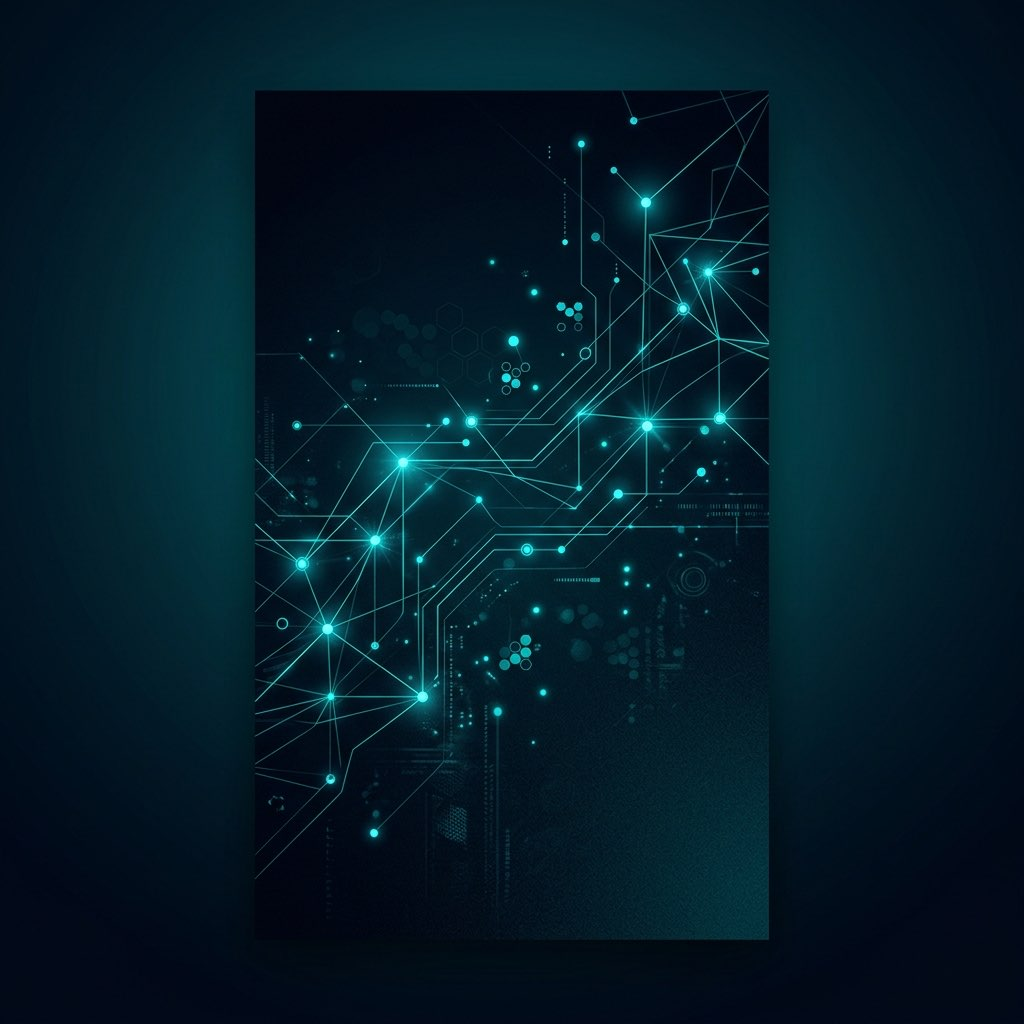
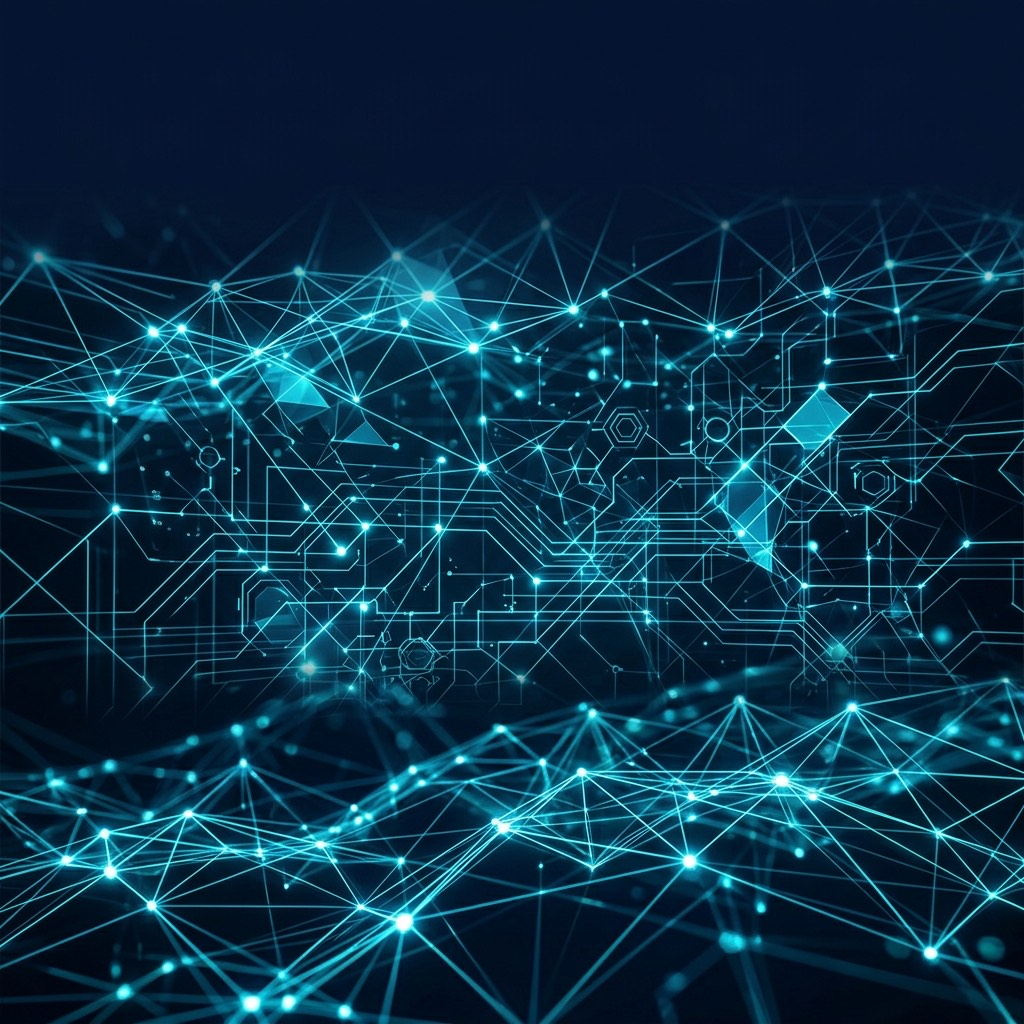
chore: apply user modifications to background and screens

diff --git a/lib/features/driver/presentation/screens/driver_profile_screen.dart b/lib/features/driver/presentation/screens/driver_profile_screen.dart
@@ -7,14 +7,13 @@ import 'package:flutter_riverpod/flutter_riverpod.dart';
 import '../../../../l10n/app_localizations.dart';
 import '../../../../core/providers/locale_provider.dart';
 
-
 class DriverProfileScreen extends ConsumerWidget {
   const DriverProfileScreen({super.key});
 
   @override
   Widget build(BuildContext context, WidgetRef ref) {
     final l10n = AppLocalizations.of(context);
-    
+
     // Mock user & vehicle data
     final mockUser = {
       'name': 'Kazi Omar',
@@ -22,7 +21,7 @@ class DriverProfileScreen extends ConsumerWidget {
       'phone': '+880 1711-223344',
       'license': 'DL-BD-987654321',
     };
-    
+
     final mockVehicle = {
       'model': 'Toyota HiAce 2018',
       'plate': 'Dhaka Metro-Cha 11-2233',
@@ -36,144 +35,193 @@ class DriverProfileScreen extends ConsumerWidget {
           image: DecorationImage(
             image: AssetImage('assets/images/driver_bg.jpg'),
             fit: BoxFit.cover,
-            opacity: 0.15,
+            opacity: 0.25,
           ),
         ),
         child: SafeArea(
-            child: SingleChildScrollView(
-              padding: const EdgeInsets.symmetric(horizontal: 24, vertical: 20).copyWith(bottom: 100),
-              child: Column(
-                children: [
-                  // App Bar
-                  Row(
-                    mainAxisAlignment: MainAxisAlignment.spaceBetween,
-                    children: [
-                      24.widthBox, // Spacer
-                      (l10n?.profileTitle ?? "MY PROFILE").text.white.letterSpacing(1).bold.xl.make(),
-                      
-                      // Language Toggle
-                      Container(
-                        height: 36,
-                        decoration: BoxDecoration(
-                          borderRadius: BorderRadius.circular(20),
-                          border: Border.all(color: Colors.cyanAccent.withValues(alpha: 0.3)),
-                          color: Colors.cyanAccent.withValues(alpha: 0.1),
-                        ),
-                        child: InkWell(
-                          borderRadius: BorderRadius.circular(20),
-                          onTap: () {
-                            final current = ref.read(localeProvider);
-                            ref.read(localeProvider.notifier).state = Locale(current.languageCode == 'en' ? 'bn' : 'en');
-                          },
-                          child: Padding(
-                            padding: const EdgeInsets.symmetric(horizontal: 12.0),
-                            child: Row(
-                              children: [
-                                const Icon(Icons.language, size: 16, color: Colors.cyanAccent),
-                                4.widthBox,
-                                (ref.watch(localeProvider).languageCode == 'en' ? 'বাং' : 'EN')
-                                    .text
-                                    .color(Colors.cyanAccent)
-                                    .bold
-                                    .make(),
-                              ],
-                            ),
-                          ),
-                        ),
-                      ),
-                    ],
-                  ),
-                  40.heightBox,
-                  
-                  // Avatar Profile Picture
-                  Center(
-                    child: Container(
-                      padding: const EdgeInsets.all(4),
+          child: SingleChildScrollView(
+            padding: const EdgeInsets.symmetric(
+              horizontal: 24,
+              vertical: 20,
+            ).copyWith(bottom: 100),
+            child: Column(
+              children: [
+                // App Bar
+                Row(
+                  mainAxisAlignment: MainAxisAlignment.spaceBetween,
+                  children: [
+                    24.widthBox, // Spacer
+                    (l10n?.profileTitle ?? "MY PROFILE").text.white
+                        .letterSpacing(1)
+                        .bold
+                        .xl
+                        .make(),
+
+                    // Language Toggle
+                    Container(
+                      height: 36,
                       decoration: BoxDecoration(
-                        shape: BoxShape.circle,
-                        gradient: const LinearGradient(
-                          colors: [Colors.cyanAccent, Colors.blueAccent],
+                        borderRadius: BorderRadius.circular(20),
+                        border: Border.all(
+                          color: Colors.cyanAccent.withValues(alpha: 0.3),
                         ),
-                        boxShadow: [
-                          BoxShadow(
-                            color: Colors.cyanAccent.withValues(alpha: 0.3),
-                            blurRadius: 20,
-                            spreadRadius: 2,
+                        color: Colors.cyanAccent.withValues(alpha: 0.1),
+                      ),
+                      child: InkWell(
+                        borderRadius: BorderRadius.circular(20),
+                        onTap: () {
+                          final current = ref.read(localeProvider);
+                          ref.read(localeProvider.notifier).state = Locale(
+                            current.languageCode == 'en' ? 'bn' : 'en',
+                          );
+                        },
+                        child: Padding(
+                          padding: const EdgeInsets.symmetric(horizontal: 12.0),
+                          child: Row(
+                            children: [
+                              const Icon(
+                                Icons.language,
+                                size: 16,
+                                color: Colors.cyanAccent,
+                              ),
+                              4.widthBox,
+                              (ref.watch(localeProvider).languageCode == 'en'
+                                      ? 'বাং'
+                                      : 'EN')
+                                  .text
+                                  .color(Colors.cyanAccent)
+                                  .bold
+                                  .make(),
+                            ],
                           ),
-                        ],
-                      ),
-                      child: const CircleAvatar(
-                        radius: 50,
-                        backgroundColor: Color(0xFF0B1320),
-                        child: Icon(Icons.person, size: 50, color: Colors.cyanAccent),
-                      ),
-                    ),
-                  ).animate().scale(delay: 100.ms, duration: 400.ms),
-                  16.heightBox,
-                  (mockUser['name']!).text.white.bold.xl3.make(),
-                  4.heightBox,
-                  "ID: ${mockUser['id']!}".text.color(Colors.cyanAccent).letterSpacing(1).make(),
-                  30.heightBox,
-                  
-                  // Personal Details Card (Glassmorphism)
-                  _buildGlassCard(
-                    title: l10n?.personalDetails ?? "PERSONAL DETAILS",
-                    icon: Icons.badge_outlined,
-                    children: [
-                      _buildInfoRow(Icons.phone, l10n?.phoneNumber ?? "Phone Number", mockUser['phone']!),
-                      const Divider(color: Colors.white10, height: 24),
-                      _buildInfoRow(Icons.card_membership, l10n?.licenseNo ?? "License No", mockUser['license']!),
-                    ],
-                  ).animate().fade(delay: 200.ms).slideY(begin: 0.1, end: 0),
-                  
-                  20.heightBox,
-                  
-                  // Assigned Vehicle Card
-                  _buildGlassCard(
-                    title: l10n?.assignedVehicle ?? "ASSIGNED VEHICLE",
-                    icon: Icons.directions_car_outlined,
-                    children: [
-                      _buildInfoRow(Icons.local_taxi, l10n?.vehicleModel ?? "Vehicle Model", mockVehicle['model']!),
-                      const Divider(color: Colors.white10, height: 24),
-                      _buildInfoRow(Icons.pin, l10n?.plateNumber ?? "Plate Number", mockVehicle['plate']!),
-                      const Divider(color: Colors.white10, height: 24),
-                      _buildInfoRow(Icons.local_gas_station, l10n?.fuelType ?? "Fuel Type", mockVehicle['fuel']!),
-                    ],
-                  ).animate().fade(delay: 300.ms).slideY(begin: 0.1, end: 0),
-                  
-                  40.heightBox,
-                  
-                  // Logout Button
-                  SizedBox(
-                    width: double.infinity,
-                    height: 56,
-                    child: ElevatedButton(
-                      onPressed: () {
-                        // TODO: Implement actual logout logic
-                        context.go('/login');
-                      },
-                      style: ElevatedButton.styleFrom(
-                        backgroundColor: Colors.redAccent.withValues(alpha: 0.1),
-                        foregroundColor: Colors.redAccent,
-                        shape: RoundedRectangleBorder(
-                          borderRadius: BorderRadius.circular(16),
-                          side: const BorderSide(color: Colors.redAccent, width: 1.5),
                         ),
-                        elevation: 0,
-                      ),
-                      child: Row(
-                        mainAxisAlignment: MainAxisAlignment.center,
-                        children: [
-                          const Icon(Icons.logout),
-                          8.widthBox,
-                          (l10n?.logout ?? "LOGOUT").text.bold.letterSpacing(1).make(),
-                        ],
                       ),
                     ),
-                  ).animate().fade(delay: 400.ms).slideY(begin: 0.1, end: 0),
-                  
-                  20.heightBox,
-                ],
+                  ],
+                ),
+                40.heightBox,
+
+                // Avatar Profile Picture
+                Center(
+                  child: Container(
+                    padding: const EdgeInsets.all(4),
+                    decoration: BoxDecoration(
+                      shape: BoxShape.circle,
+                      gradient: const LinearGradient(
+                        colors: [Colors.cyanAccent, Colors.blueAccent],
+                      ),
+                      boxShadow: [
+                        BoxShadow(
+                          color: Colors.cyanAccent.withValues(alpha: 0.3),
+                          blurRadius: 20,
+                          spreadRadius: 2,
+                        ),
+                      ],
+                    ),
+                    child: const CircleAvatar(
+                      radius: 50,
+                      backgroundColor: Color(0xFF0B1320),
+                      child: Icon(
+                        Icons.person,
+                        size: 50,
+                        color: Colors.cyanAccent,
+                      ),
+                    ),
+                  ),
+                ).animate().scale(delay: 100.ms, duration: 400.ms),
+                16.heightBox,
+                (mockUser['name']!).text.white.bold.xl3.make(),
+                4.heightBox,
+                "ID: ${mockUser['id']!}".text
+                    .color(Colors.cyanAccent)
+                    .letterSpacing(1)
+                    .make(),
+                30.heightBox,
+
+                // Personal Details Card (Glassmorphism)
+                _buildGlassCard(
+                  title: l10n?.personalDetails ?? "PERSONAL DETAILS",
+                  icon: Icons.badge_outlined,
+                  children: [
+                    _buildInfoRow(
+                      Icons.phone,
+                      l10n?.phoneNumber ?? "Phone Number",
+                      mockUser['phone']!,
+                    ),
+                    const Divider(color: Colors.white10, height: 24),
+                    _buildInfoRow(
+                      Icons.card_membership,
+                      l10n?.licenseNo ?? "License No",
+                      mockUser['license']!,
+                    ),
+                  ],
+                ).animate().fade(delay: 200.ms).slideY(begin: 0.1, end: 0),
+
+                20.heightBox,
+
+                // Assigned Vehicle Card
+                _buildGlassCard(
+                  title: l10n?.assignedVehicle ?? "ASSIGNED VEHICLE",
+                  icon: Icons.directions_car_outlined,
+                  children: [
+                    _buildInfoRow(
+                      Icons.local_taxi,
+                      l10n?.vehicleModel ?? "Vehicle Model",
+                      mockVehicle['model']!,
+                    ),
+                    const Divider(color: Colors.white10, height: 24),
+                    _buildInfoRow(
+                      Icons.pin,
+                      l10n?.plateNumber ?? "Plate Number",
+                      mockVehicle['plate']!,
+                    ),
+                    const Divider(color: Colors.white10, height: 24),
+                    _buildInfoRow(
+                      Icons.local_gas_station,
+                      l10n?.fuelType ?? "Fuel Type",
+                      mockVehicle['fuel']!,
+                    ),
+                  ],
+                ).animate().fade(delay: 300.ms).slideY(begin: 0.1, end: 0),
+
+                40.heightBox,
+
+                // Logout Button
+                SizedBox(
+                  width: double.infinity,
+                  height: 56,
+                  child: ElevatedButton(
+                    onPressed: () {
+                      // TODO: Implement actual logout logic
+                      context.go('/login');
+                    },
+                    style: ElevatedButton.styleFrom(
+                      backgroundColor: Colors.redAccent.withValues(alpha: 0.1),
+                      foregroundColor: Colors.redAccent,
+                      shape: RoundedRectangleBorder(
+                        borderRadius: BorderRadius.circular(16),
+                        side: const BorderSide(
+                          color: Colors.redAccent,
+                          width: 1.5,
+                        ),
+                      ),
+                      elevation: 0,
+                    ),
+                    child: Row(
+                      mainAxisAlignment: MainAxisAlignment.center,
+                      children: [
+                        const Icon(Icons.logout),
+                        8.widthBox,
+                        (l10n?.logout ?? "LOGOUT").text.bold
+                            .letterSpacing(1)
+                            .make(),
+                      ],
+                    ),
+                  ),
+                ).animate().fade(delay: 400.ms).slideY(begin: 0.1, end: 0),
+
+                20.heightBox,
+              ],
             ),
           ),
         ),
@@ -181,7 +229,11 @@ class DriverProfileScreen extends ConsumerWidget {
     );
   }
 
-  Widget _buildGlassCard({required String title, required IconData icon, required List<Widget> children}) {
+  Widget _buildGlassCard({
+    required String title,
+    required IconData icon,
+    required List<Widget> children,
+  }) {
     return ClipRRect(
       borderRadius: BorderRadius.circular(20),
       child: BackdropFilter(
@@ -191,7 +243,10 @@ class DriverProfileScreen extends ConsumerWidget {
           decoration: BoxDecoration(
             color: Colors.white.withValues(alpha: 0.05),
             borderRadius: BorderRadius.circular(20),
-            border: Border.all(color: Colors.white.withValues(alpha: 0.1), width: 1),
+            border: Border.all(
+              color: Colors.white.withValues(alpha: 0.1),
+              width: 1,
+            ),
           ),
           child: Column(
             crossAxisAlignment: CrossAxisAlignment.start,
@@ -200,7 +255,11 @@ class DriverProfileScreen extends ConsumerWidget {
                 children: [
                   Icon(icon, color: Colors.cyanAccent, size: 20),
                   8.widthBox,
-                  title.text.color(Colors.cyanAccent).bold.letterSpacing(1).make(),
+                  title.text
+                      .color(Colors.cyanAccent)
+                      .bold
+                      .letterSpacing(1)
+                      .make(),
                 ],
               ),
               16.heightBox,

diff --git a/lib/features/driver/presentation/screens/driver_home_screen.dart b/lib/features/driver/presentation/screens/driver_home_screen.dart
@@ -34,7 +34,7 @@ class _DriverHomeScreenState extends State<DriverHomeScreen> {
           image: DecorationImage(
             image: AssetImage('assets/images/driver_bg.jpg'),
             fit: BoxFit.cover,
-            opacity: 0.15,
+            opacity: 0.25,
           ),
         ),
         child: SafeArea(
